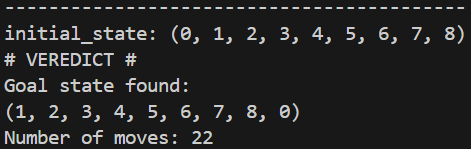
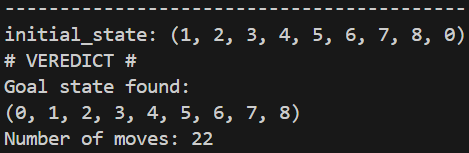
fix: goal state

diff --git a/01_puzzle.py b/01_puzzle.py
@@ -2,7 +2,7 @@ from collections import deque
 
 MATRIX_DIMS = 3 # 3x3
 
-def isObjective(state, goal_state):
+def is_objective(state, goal_state):
     return state == goal_state
 
 def create_children_and_add_to_list(state, move_count, queue):
@@ -28,8 +28,8 @@ def create_children_and_add_to_list(state, move_count, queue):
 
 def puzzle(initial_state, goal_state):
     found = False
-    # (state, move_count)
     # It's BFS because it's a queue, not a stack (DFS).
+    # (state, move_count)
     nodeQueue = deque([(initial_state, 0)])
     dictVisited = dict()
 
@@ -37,7 +37,7 @@ def puzzle(initial_state, goal_state):
         node, moves = nodeQueue.popleft()
         if node not in dictVisited:
             dictVisited[node] = True
-            if isObjective(node, goal_state):
+            if is_objective(node, goal_state):
                 found = True
                 # continue
             else:
@@ -59,12 +59,12 @@ if __name__ == "__main__":
     initial_states = [
         (4, 6, 2, 8, 1, 3, 7, 5, 0),
         (6, 4, 2, 8, 1, 3, 7, 5, 0),
-        (0, 1, 2, 3, 4, 5, 6, 7, 8),
+        (1, 2, 3, 4, 5, 6, 7, 8, 0),
         (7, 5, 4, 1, 0, 3, 2, 6, 8),
     ]
-    goal_state = (1, 2, 3, 
-                  4, 5, 6, 
-                  7, 8, 0)
+    goal_state = (0, 1, 2, 
+                  3, 4, 5, 
+                  6, 7, 8)
     for state in initial_states:
         puzzle(state, goal_state)
     

diff --git a/01_puzzle.md b/01_puzzle.md
@@ -1,5 +1,13 @@
 # Problem Formulation
 
+## Used Thecnique
+### Breadth First Search (BFS) with pruning of already evaluated states.
+![alt text](images/01_puzzle/deque.png)
+<br>
+**...**
+<br>
+![alt text](images/01_puzzle/popleft_and_prune.png)
+
 ## Initial States
 ```python
 # Unsolvable
@@ -16,9 +24,9 @@
 ]
 # Solvable
 [
-    [0, 1, 2],
-    [3, 4, 5],
-    [6, 7, 8]
+    [1, 2  3],
+    [4, 5, 6],
+    [7, 8, 0]
 ]
 # Solvable
 [
@@ -31,14 +39,21 @@
 ## Objective State
 ```python
 [
-    [1, 2  3],
-    [4, 5, 6],
-    [7, 8, 0]
+    [0, 1  2],
+    [3, 4, 5],
+    [8, 7, 8]
 ]
 ```
 
+## Objective Test
+![alt text](images/01_puzzle/test_objective.png)
+
 ## Set of Operations
-- Move the "empty tile" on the 3x3 board
+- Move the empty tile (0) in one of four possible directions:
+  - When the empty tile is at the center, it will have 4 children (nodes).
+  - When it's a the center borders, it will have 3 children.
+  - When it's at the corners, it will have 2 children.
+- Generate new board states by swapping the empty tile with the adjacent tile in the chosen direction
 
 ## Successor Function
 ### Matrix used to generate children
@@ -46,12 +61,15 @@
 [(-1, 0), (1, 0), (0, -1), (0, 1)]
 ```
 - (-1, 0) -> Retornar uma linha
-- (0, -1) -> Retornar uma coluna
 - (+1, 0) -> Avançar uma linha
+- (0, -1) -> Retornar uma coluna
 - (0, +1) -> Avançar uma coluna
 
-## Resultados
-![insolvable](images/01_puzzle/unsolvable.png)
+### Generating Children
+![alt text](images/01_puzzle/directions_application.png)
+
+## Results
+![unsolvable](images/01_puzzle/unsolvable.png)
 ![solvable_01](images/01_puzzle/solvable_01.png)
 ![solvable_02](images/01_puzzle/solvable_02.png)
 ![solvable_03](images/01_puzzle/solvable_03.png)
